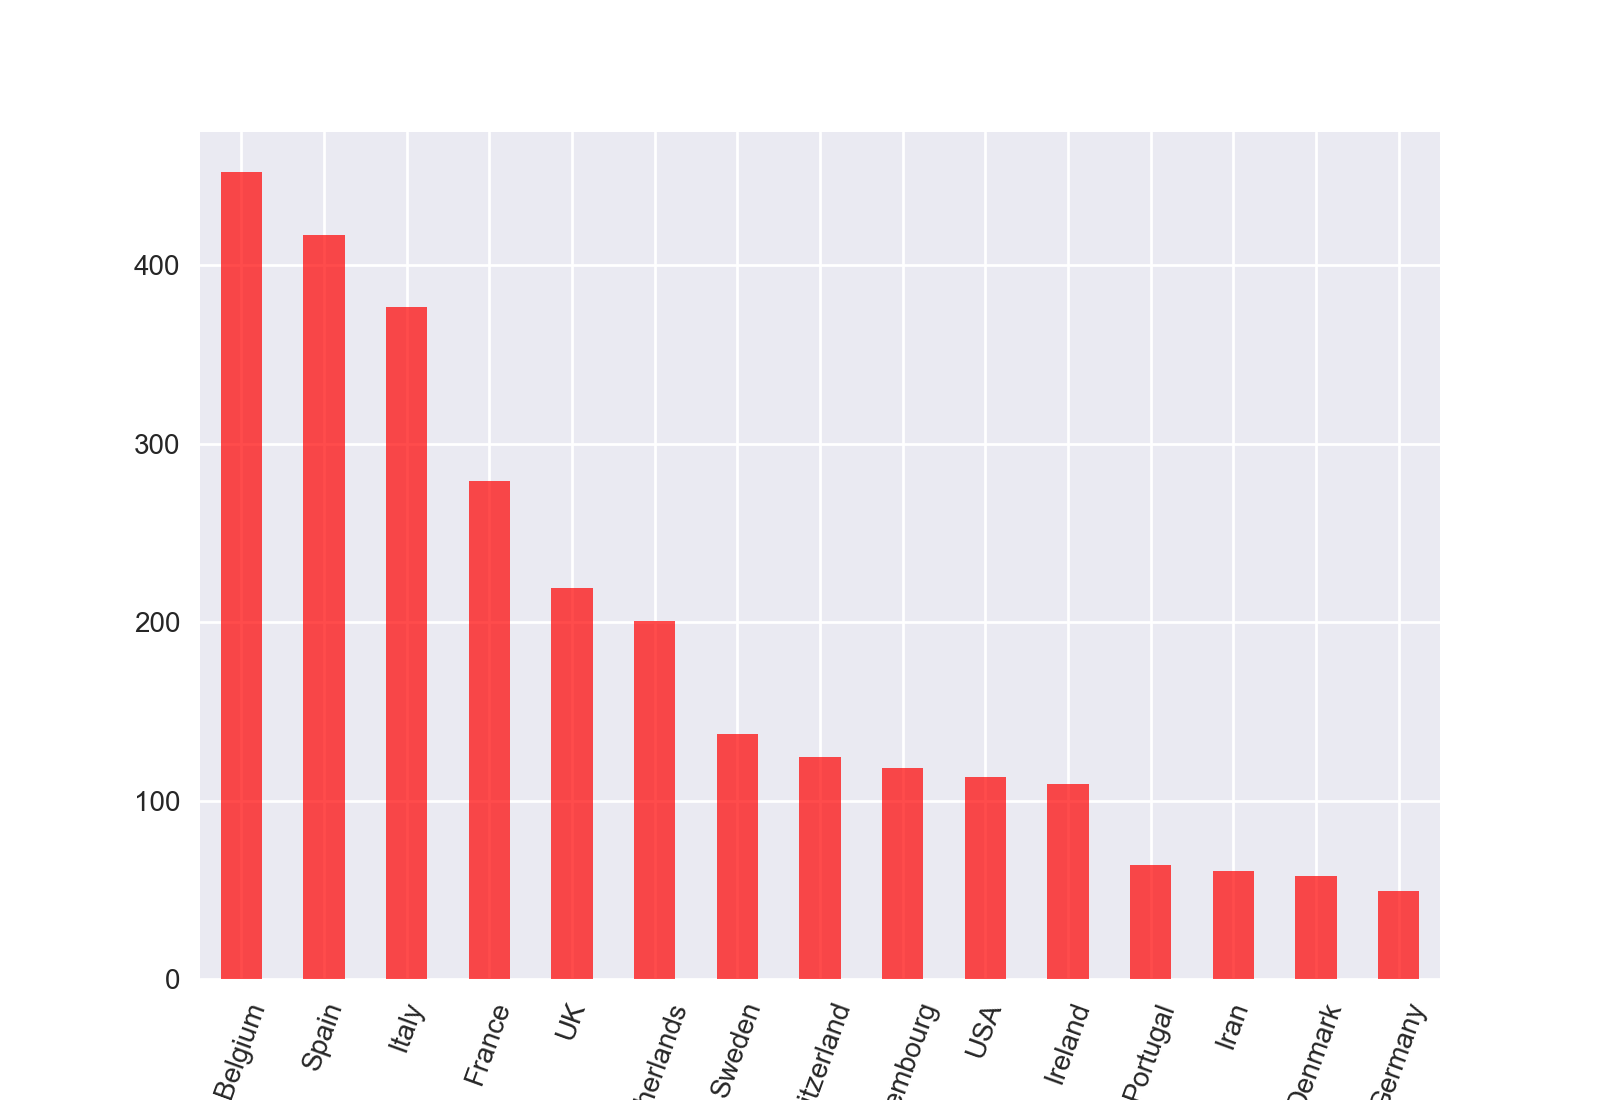
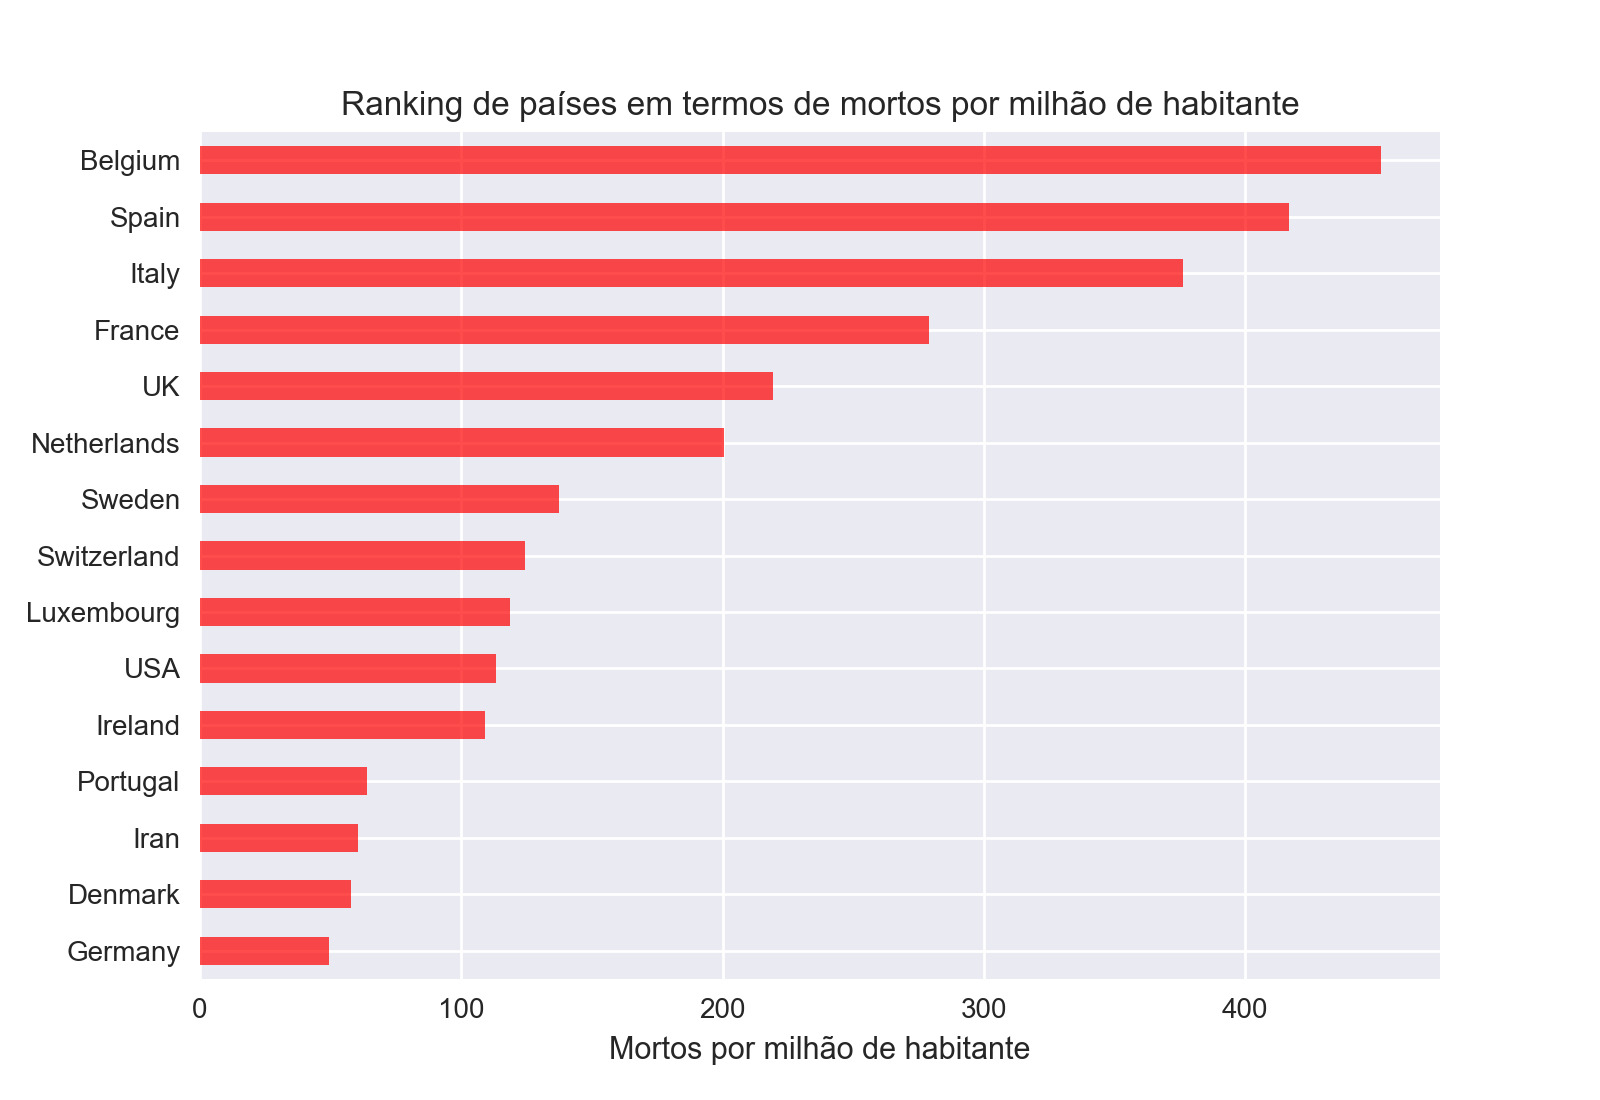
20200418 International analysis more graphs and xlabels fixed

diff --git a/International Analysis.py b/International Analysis.py
@@ -29,10 +29,12 @@ PT_SW['cases_pop'] = PT_SW.Total_cases / (PT_SW.popData2018/1000000)
 PT_SW['death_pop'] = PT_SW.Total_deaths / (PT_SW.popData2018/1000000)
 
 #Get the max (latest), exclude small coutries and plot
-country_dr = PT_SW.groupby('countriesAndTerritories').death_pop.max().sort_values(ascending=False).dropna()
+country_dr = PT_SW.groupby('countriesAndTerritories').death_pop.max().sort_values(ascending=True).dropna()
 exclude = ['Cases_on_an_international_conveyance_Japan','San_Marino','Andorra','Sint_Maarten','Guernsey','Gibraltar','Jersey','Monaco','Bermuda']
-country_dr[~country_dr.index.isin(exclude)].head(15).plot(kind='bar',color='r',alpha=0.7,rot=70)
-plt.savefig(caminho+'/'+'Internacional'+hoje+'jpg')
+plt.style.use('seaborn')
+country_dr[~country_dr.index.isin(exclude)].tail(15).plot(kind='barh',color='r',alpha=0.7)
 plt.title('Ranking de países em termos de mortos por milhão de habitante')
-plt.ylabel('Mortos por milhão de habitante')
+plt.xlabel('Mortos por milhão de habitante')
+plt.ylabel('')
+plt.savefig(caminho+'/'+'Internacional'+hoje+'jpg')
 plt.show()
